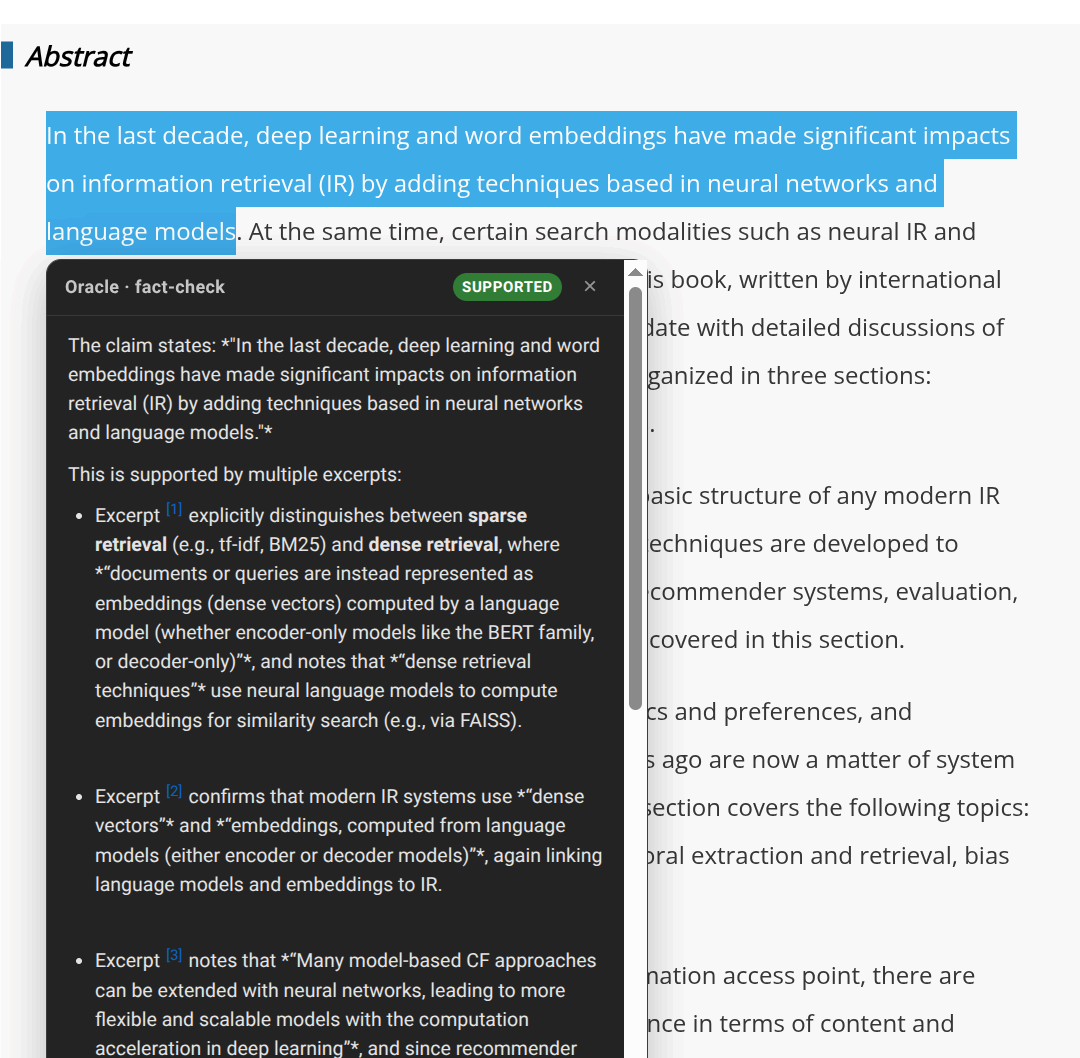
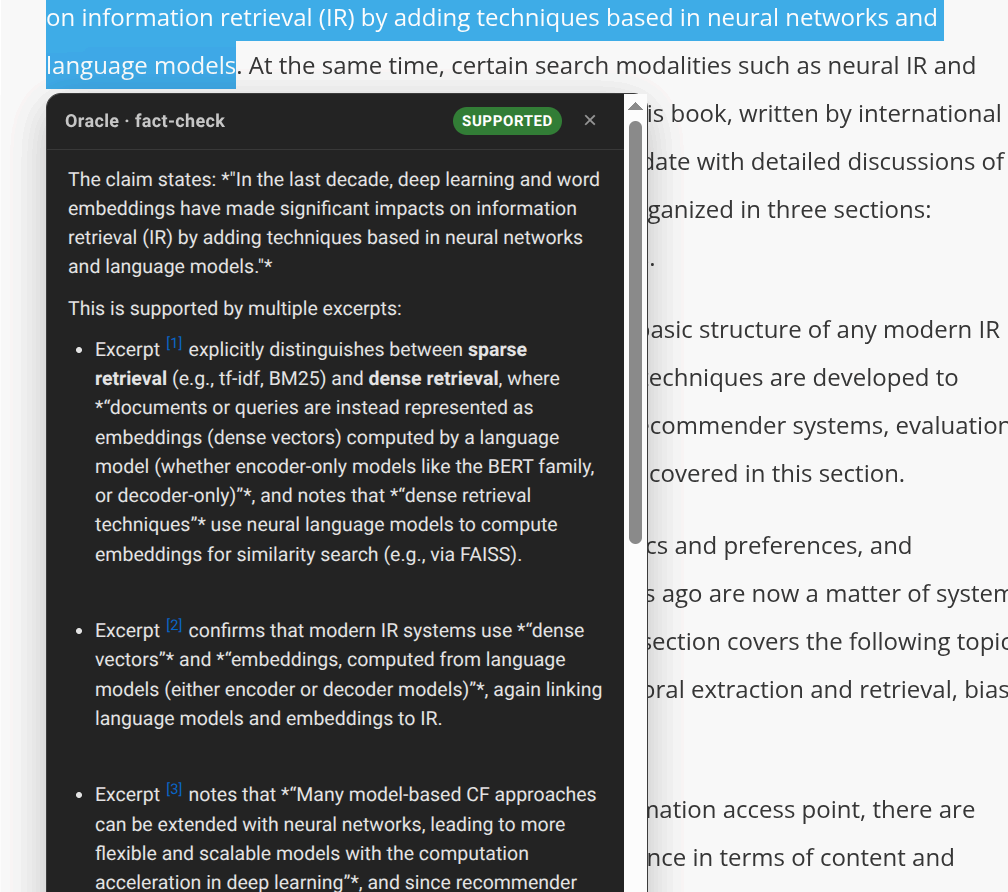
extension: fix the region-select Send button, crop text scoping, uniform screenshots
SEND BUTTON DID NOTHING. Clicking Send made the selection and toolbar vanish
without sending. Cause: Shadow DOM RETARGETING. The mousedown listener sits on the
shadow HOST, so for any event originating inside the shadow root e.target is the
host itself — never the button — and the guard `e.target.closest(".bar")` searched
the light DOM, found nothing, and let the click start a NEW drag: the bar hid, the
tiny drag reset the selection, and the click never landed. Fixed with
composedPath(), which is the shadow-aware view. Verified by driving real headless
Chrome: drag, click Send, assert the vision:region message is dispatched.

Also from that test: the reported rect was 302x202 for a 300x200 drag, because it
was read back with getBoundingClientRect() from an element with a 1.5px border.
The geometry the user drew should not depend on how we style it — the logical rect
is now kept from the drag itself.

CURSOR. The host paints a full-screen crosshair for dragging and the toolbar
inherited it, so the Send button looked like more canvas to drag on.

CROP-SCOPED CONTEXT. Text is now collected by walking text nodes and placing each
by its own Range box, so the text INSIDE the dragged rectangle can be sent
separately and marked authoritative. This answers "which panel?" — the earlier
live test showed the page naming three panels while the crop was one anonymous
line, and the model picking one plausibly. Whole-page text is still sent for what
[…]

diff --git a/chrome-capture/regionselect.js b/chrome-capture/regionselect.js
@@ -20,8 +20,14 @@
         border:1px solid #444; border-radius:8px; padding:6px; box-shadow:0 8px 30px rgba(0,0,0,.4); }
       .bar input { width:220px; border:1px solid #555; background:#111; color:#eee; border-radius:6px;
         padding:5px 7px; font:13px sans-serif; }
-      .bar button { border:0; border-radius:6px; padding:5px 9px; font:13px sans-serif; font-weight:600; cursor:pointer; }
+      .bar button { border:0; border-radius:6px; padding:5px 9px; font:13px sans-serif; font-weight:600; }
+      /* The host paints a full-screen crosshair for dragging, which the toolbar inherits — so the
+         Send button looked like more canvas to drag on. Restore normal cursors over the controls. */
+      .bar { cursor:default; }
+      .bar input { cursor:text; }
+      .bar button { cursor:pointer; }
       .go { background:#128a86; color:#fff; } .no { background:#333; color:#ccc; }
+      .go:hover { filter:brightness(1.12); } .no:hover { background:#3d3d3d; }
     </style>
     <div class="dim"></div>
     <div class="sel"></div>
@@ -44,28 +50,42 @@
   function onKey(e) { if (e.key === "Escape") { e.preventDefault(); teardown(); } }
   window.addEventListener("keydown", onKey, true);
 
+  // Keep the LOGICAL rect from the drag itself. Reading it back with getBoundingClientRect()
+  // returns the styled box — border included — so a 300x200 drag reported 302x202 and the crop was
+  // offset by the selection border. The geometry the user drew should not depend on how we style it.
+  let box = null;
   function place(x, y) {
     const l = Math.min(x, sx), t = Math.min(y, sy), w = Math.abs(x - sx), h = Math.abs(y - sy);
+    box = { x: l, y: t, w, h };
     sel.style.left = l + "px"; sel.style.top = t + "px"; sel.style.width = w + "px"; sel.style.height = h + "px";
   }
 
+  // Shadow DOM RETARGETING: this listener is on the shadow HOST, so for any event originating
+  // inside the shadow root `e.target` is the host itself — never the button. The old guard
+  // (`e.target.closest(".bar")`) therefore searched the light DOM, found nothing, and let a click
+  // on Send start a NEW selection: the bar hid, the tiny drag reset everything, and the click never
+  // reached the button. composedPath() is the shadow-aware view and reports the real inner node.
+  const inBar = (e) =>
+    e.composedPath().some((n) => n instanceof Element && n.classList.contains("bar"));
+
   host.addEventListener("mousedown", (e) => {
-    if (e.target.closest(".bar")) return;
+    if (inBar(e)) return;
     drawing = true; sx = e.clientX; sy = e.clientY;
     dim.style.display = "none"; bar.style.display = "none"; sel.style.display = "block";
     place(e.clientX, e.clientY); e.preventDefault();
   });
   host.addEventListener("mousemove", (e) => { if (drawing) place(e.clientX, e.clientY); });
-  host.addEventListener("mouseup", () => {
+  host.addEventListener("mouseup", (e) => {
+    if (inBar(e)) return;
     if (!drawing) return;
     drawing = false;
-    const r = sel.getBoundingClientRect();
-    if (r.width < 8 || r.height < 8) { sel.style.display = "none"; dim.style.display = "block"; return; }
-    rect = { x: r.left, y: r.top, w: r.width, h: r.height };
+    const r = box;
+    if (!r || r.w < 8 || r.h < 8) { sel.style.display = "none"; dim.style.display = "block"; return; }
+    rect = { x: r.x, y: r.y, w: r.w, h: r.h };
     hint.style.display = "none";
-    let top = r.bottom + 8; if (top > innerHeight - 46) top = r.top - 46;
+    let top = r.y + r.h + 8; if (top > innerHeight - 46) top = r.y - 46;
     bar.style.top = Math.max(8, top) + "px";
-    bar.style.left = Math.min(Math.max(8, r.left), innerWidth - 330) + "px";
+    bar.style.left = Math.min(Math.max(8, r.x), innerWidth - 330) + "px";
     bar.style.display = "flex"; input.focus();
   });
 

diff --git a/chrome-capture/background.js b/chrome-capture/background.js
@@ -254,19 +254,62 @@ async function visionRegion(msg, tab) {
     // and almost opaque to a model: a Grafana panel is a line and some ticks, and without the
     // dashboard name, panel titles, legend and units the model will confabulate a plausible system.
     // That text is on the page; grab it rather than making the model guess.
-    let pageText = "";
+    let pageText = "", cropText = "";
     try {
       const [pt] = await chrome.scripting.executeScript({
         target: { tabId: tab.id },
-        func: () => (document.body ? document.body.innerText : "").replace(/\s+/g, " ").trim().slice(0, 6000),
+        args: [rect],
+        func: (box) => {
+          // Walk TEXT NODES and place each by its own Range box.
+          //
+          // The reason is not that innerText misses SVG — measured in headless Chrome, innerText
+          // does include SVG <text>, so chart axis labels survive either way. The reason is
+          // LOCATION: innerText gives one flat string for the whole document, so on a page of
+          // twelve panels it names twelve metrics and cannot say which one you cropped. A text-node
+          // walk can ask WHERE each string is rendered and keep the ones inside the rectangle you
+          // dragged. Pure geometry — no selectors, no hostnames, nothing site-specific.
+          const clean = (s) => (s || "").replace(/\s+/g, " ").trim();
+          const walk = (test) => {
+            const out = [];
+            const seen = new Set();
+            const w = document.createTreeWalker(document.body, NodeFilter.SHOW_TEXT);
+            const rng = document.createRange();
+            while (w.nextNode()) {
+              const t = clean(w.currentNode.nodeValue);
+              if (t.length < 2) continue;
+              rng.selectNodeContents(w.currentNode);
+              const r = rng.getBoundingClientRect();
+              if (!r.width && !r.height) continue;      // not rendered
+              if (!test(r)) continue;
+              const k = t.toLowerCase();
+              if (seen.has(k)) continue;                 // charts repeat tick labels
+              seen.add(k);
+              out.push(t);
+              if (out.length > 400) break;
+            }
+            return out;
+          };
+          // Containment by CENTRE, not by intersection: a bare intersection test counts a one-pixel
+          // touch, which pulled the whole nav bar into a crop of the panel just below it. The
+          // centre of a label is inside the region the user meant iff the label is in that region.
+          const hit = (r) => {
+            const cx = r.left + r.width / 2, cy = r.top + r.height / 2;
+            return cx >= box.x && cx <= box.x + box.w && cy >= box.y && cy <= box.y + box.h;
+          };
+          return {
+            crop: walk(hit).join(" · ").slice(0, 3000),
+            page: walk(() => true).join(" · ").slice(0, 6000),
+          };
+        },
       });
-      pageText = pt?.result || "";
+      cropText = pt?.result?.crop || "";
+      pageText = pt?.result?.page || "";
     } catch (_) { /* some pages refuse injection; context is a bonus, not a requirement */ }
     const r = await fetch(RECEIVER + "/vision", {
       method: "POST", headers: { "Content-Type": "application/json" },
       body: JSON.stringify({
         image: b64, mime: "image/png", prompt,
-        url: tab.url, title: tab.title, page_text: pageText,
+        url: tab.url, title: tab.title, page_text: pageText, crop_text: cropText,
       }),
     });
     if (!r.ok || !r.body) { send({ event: "error", data: { error: "receiver error " + r.status } }); return; }

diff --git a/oracle-capture-receiver.py b/oracle-capture-receiver.py
@@ -702,7 +702,8 @@ def _summarize_for_vl(page_text: str, url: str, title: str) -> str:
     return "" if (not out or "NO USEFUL CONTEXT" in out.upper()) else out
 
 
-def _vl_context(url: str, title: str, page_text: str, summarized: bool = False) -> str:
+def _vl_context(url: str, title: str, page_text: str, summarized: bool = False,
+                crop_text: str = "") -> str:
     """Text context to put in FRONT of the screenshot.
 
     A cropped region carries almost no self-description: a Grafana panel is a line and some axis
@@ -717,6 +718,14 @@ def _vl_context(url: str, title: str, page_text: str, summarized: bool = False) 
         parts.append(f"Page title: {title.strip()}")
     if url:
         parts.append(f"Page URL: {url.strip()}")
+    # FIRST, and marked as authoritative: the text actually inside the dragged rectangle. On a page
+    # of twelve panels the whole-page text names twelve metrics and cannot say which one was
+    # cropped — the model then picks plausibly, which is guessing with better inputs. The text under
+    # the crop answers "which".
+    crop = " ".join((crop_text or "").split())
+    if crop:
+        parts.append("Text rendered INSIDE the cropped region (this describes the image itself, "
+                     f"prefer it over the rest of the page):\n{crop[:VL_CTX_CHARS]}")
     t = " ".join((page_text or "").split())
     if t:
         if summarized:
@@ -735,7 +744,7 @@ def _vl_context(url: str, title: str, page_text: str, summarized: bool = False) 
 
 
 def vision_stream(image_data_url: str, prompt: str = "", url: str = "", title: str = "",
-                  page_text: str = ""):
+                  page_text: str = "", crop_text: str = ""):
     """Stream the qwen3-vl answer for a screenshotted region. NOT grounded — a direct look at the
     pixels (read this diagram / transcribe this / what is this). Emits ('delta',…)* then ('done',{}).
 
@@ -758,7 +767,7 @@ def vision_stream(image_data_url: str, prompt: str = "", url: str = "", title: s
         yield ("error", {"error": f"{e}\n\n{VL_DISABLED_MSG}", "reason": "vision_unavailable"})
         return
     prompt = (prompt or "").strip() or "Describe and explain what is shown in this image. Be concise."
-    ctx = _vl_context(url, title, brief or page_text, summarized)
+    ctx = _vl_context(url, title, brief or page_text, summarized, crop_text)
     # Order matters: context, then the image, then the question. The text frames what the pixels
     # are before the model looks at them; the question stays last so it is the most recent thing.
     content = ([{"type": "text", "text": ctx}] if ctx else []) + [
@@ -1074,7 +1083,8 @@ class Handler(BaseHTTPRequestHandler):
                 if not img.startswith("data:"):
                     img = f"data:{p.get('mime', 'image/png')};base64,{img}"
                 self._send_sse(vision_stream(img, p.get("prompt", ""), p.get("url", ""),
-                                             p.get("title", ""), p.get("page_text", "")))
+                                             p.get("title", ""), p.get("page_text", ""),
+                                             p.get("crop_text", "")))
             elif self.path.startswith("/observe"):
                 self._send(observe(p.get("text", ""), float(p.get("weight", 1.0)),
                                    p.get("url", ""), p.get("title", "")))

diff --git a/README.md b/README.md
@@ -26,6 +26,16 @@ The same selection can be **fact-checked** against the corpus instead, verdict f
 Both answers are drawn *only* from the local corpus. If it doesn't cover the question, that is what
 they say — which is the entire point.
 
+Drag a rectangle over anything on screen and a local **vision** model reads it — a Grafana panel, a
+diagram, a scanned page. The GPU holds one big model at a time, so the request swaps qwen3-vl in and
+the text model out automatically, then swaps back:
+
+![Screenshot a region → Oracle vision, reading a Grafana dashboard](docs/screenshots/vision-grafana.png)
+
+Note what it knows: the dashboard's **ID 24298** and `pg_exporter` appear nowhere in those pixels —
+they come from the page's own text, which is sent with the image. The instance values (17.6.0,
+4.19 GB, 40.9 MB) it reads off the crop.
+
 ## The two axioms
 
 Everything in this repo that generalises past this machine is a corollary of these two

diff --git a/chrome-capture/README.md b/chrome-capture/README.md
@@ -13,6 +13,12 @@ footnote, and every footnote opens the corpus browser at the page the claim came
 
 *The same selection, fact-checked instead: verdict chip first, then the excerpts that support it.*
 
+![Screenshot a region → Oracle vision](../docs/screenshots/vision-grafana.png)
+
+*Drag a rectangle and a local vision model reads it. The GPU holds one big model at a time, so the
+request swaps qwen3-vl in and the text model out automatically. The page's text goes with the image —
+which is how it knows the dashboard ID and datasource, neither of which is in the pixels.*
+
 ## Features
 
 **1. Capture → corpus.** Turn the live DOM into clean Markdown (the **same trafilatura** `fetch_url`
